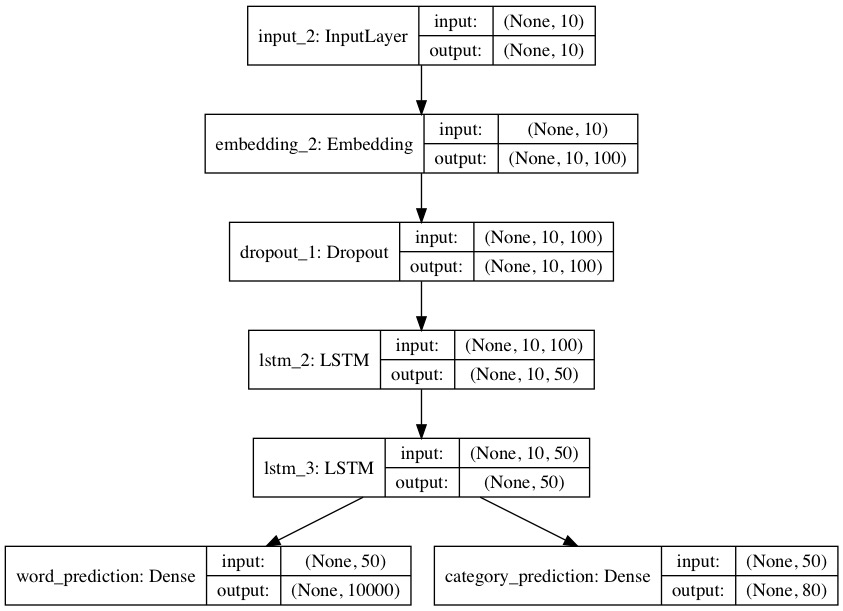
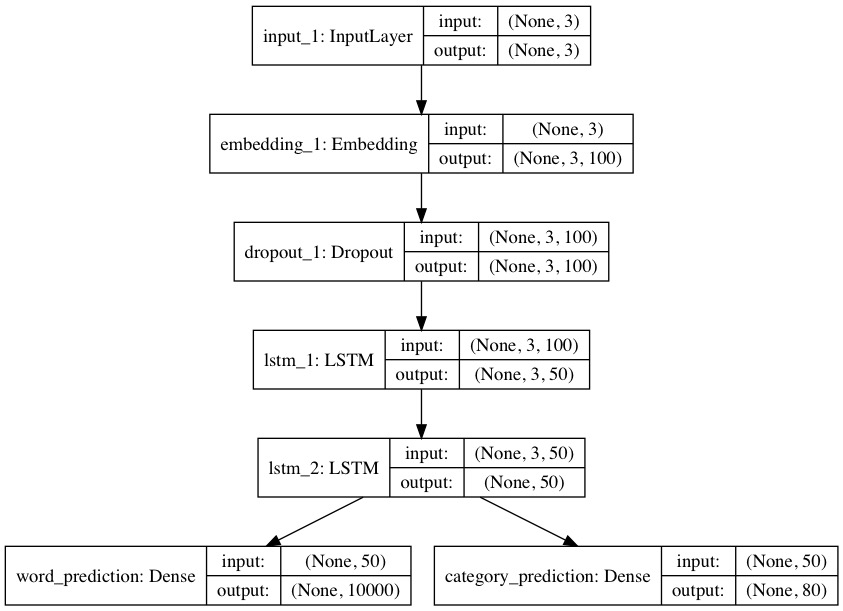
Updated README with report

diff --git a/README.md b/README.md
@@ -2,22 +2,63 @@
 
 ## Usage
 
-### `test.py`
+### Example
+
+#### Train Model
+Train the model on *horse* and *cat* categories.
 ```
-# Example
-python test.py -P B --windowsize=3 --maxinstances=10 ./models/lstm_simple.hdf5 tokenizer10000.pickle
+python train.py -P B --maxinstances=25 ./test/ ./test/test_model.hdf5 'horse' 'cat'
+```
+  - Model will be saved in `./test/test_model.hdf5` and
+  - Tokenizer saved to `./test/tokenizer10000_horse_cat.pickle`
+Both of these need to be provided to `test.py`, but better to use the pretrained models and tokenizers. Just copy the examples below
+
+#### Test Model
+Then to test the model using the best model (not the one we just trained on)
+```
+python test.py -P B --maxinstances=50 ./models/lstm_simple_embed100.hdf5 ./tokenizer10000.pickle
 ```
 
-### `perplexity.py`
+#### Perplexity
+Calculate the perplexity of the model
 ```
-# Example
-python perplexity.py --windowsize=3 --maxinstances=10 ./models/lstm_simple.hdf5 tokenizer10000.pickle
+python perplexity.py --maxinstances=50 ./models/lstm_simple_embed100.hdf5 ./tokenizer10000.pickle
 ```
 
+#### Predict Words
+```
+python predict_word.py "A man is sitting on a" ./models/lstm_simple_embed100.hdf5 ./tokenizer10000.pickle
+```
+
+    Predicting: A man is sitting on a...
+    Word Predictions:
+    picture: 0.11356481909751892
+    holding: 0.11310586333274841
+    window: 0.04701809585094452
+    glass: 0.04402976483106613
+    looking: 0.038740649819374084
+    ---------
+    Category Predictions:
+    person: 0.14352022111415863
+    chair: 0.045445144176483154
+    cat: 0.04415004700422287
+    dining table: 0.04063219204545021
+    bench: 0.03427702933549881
+
+Multi-word prediction
+```
+python predict_word.py -n 3 "A man is sitting on a" ./models/lstm_simple_embed100.hdf5 ./tokenizer10000.pickle
+```
+
+    Predicting 3 words: A man is sitting on a -> picture the man
+    Category Predictions:
+    person: 0.11248820275068283
+    chair: 0.07324380427598953
+    tv: 0.06896624714136124
+    book: 0.04803682491183281
+    couch: 0.04134979099035263
 
 ###  Model Diagram
-
-
 ```python
 from keras.models import load_model
 from keras.utils import plot_model
@@ -30,38 +71,69 @@ plot_model(model, to_file="./imgs/lstm_simple_embed100.jpg", show_shapes=True)
 
 ### Architecture Overview
 
-After experiementing with many different architectures and LSTM layers, what ended up working the best was a single LSTM layer with 50 nodes. Each word is represented as an integer less than 10000. Some of the other approaches I tried were to have the embedding layer input into two different LSTM layers which in turn seperately predicted either word prediction, or category prediction. This performed worse than other options as well. The other architectures I experimented with are described below, where two LSTM layers are used (passing sequences from first to the second). The word predictions have size 10000 with a softmax activation
+After experiementing with many different architectures and LSTM layers, what ended up working the best was a single LSTM layer with 50 nodes. Each word is represented as an integer less than 10000. Some of the other approaches I tried were to have the embedding layer input into two different LSTM layers which in turn seperately predicted either word prediction, or category prediction. This performed worse than other options as well. The other architectures I experimented with are described below, where two LSTM layers are used (passing sequences from first to the second).
 
-  - **Loss function**: Categorical Cross Entropy
+I had originally started with a window size of 5 and then tested a window size of 10. The accuracy was a little better but when using word prediction script the results did not appear as good. The tradeoff of training time was also not worth it as the window size of 10 took almost twice as long to run.
+
+  - **Loss function**: Categorical Cross Entropy for the word prediction since we have one-hot vector encodings and Binary Cross Entropy for the multi-category classification.
   - **Batch Size**: 256
   - **Epochs**: 10 (For final test)
-  - **Window size**: 10 This was probably way overkill for this. I had slightly better results using 10 window size but the different in training time was not worth the results.
+  - **Window size**: 3
   - **Data size**: Using the window size of 10, I created 5572508 training examples from the 591753 captions in the training data. In the test set, 236352 training examples were created from 25014 captions.
-  - **Dropout**: dropout was set to 0.1 for the LSTM layer. This performed better than no dropout and 0.5 dropout.
-
-
-```python
-# Alternative model
-model = load_model('./models/lstm_complex_drop1.hdf5')
-plot_model(model, to_file="./imgs/lstm_complex_drop1.jpg", show_shapes=True)
-```
+  - **Dropout**: dropout was set to 0.1 for the LSTM layer. This performed better than no dropout and 0.5 dropout. It was also not the best test for this as I think with many more epochs it could have performed the same and generalized better.
 
 ### Variant
 ![Two LSTM Layers](./imgs/lstm_complex_drop1.jpg)
 
 This architectural variant did not seem to perform as well at the simple one layer LSTM model. I experimented with setting the dropout rate which increased the loss. This might not have been fair to do, since I did not run it for many epochs. Increasing the dropout rate should make the model converge slower but overfit less often which I didn't give it the chance to do with such a small number of epochs.
 
+Code below
+```python
+from keras.models import load_model
+from keras.utils import plot_model
+
+# Alternative model
+model = load_model('./models/lstm_complex_drop1.hdf5')
+plot_model(model, to_file="./imgs/lstm_complex_drop1.jpg", show_shapes=True)
+```
+
 ### Hyperparameter Selection  
 
   After experiementing with many different architectures and LSTM layers, what ended up working the best was a single LSTM layer with 50 nodes. I first changed the embedding size to 100 and then for the two other variations a more complex model (seen above) with additional dropout at levels 0.1 and 0.5. I thought that adding another LSTM layer would perform better than the single layer. I am not sure if increasing the epochs or modifying the other hyperparameters would have made a difference.
 
 ### Model Loss for Different Hyperparameters
-
 ![Model Loss](./imgs/model_loss.png)
+
+The final model I went with was the *Simple LSTM 100 Embed*. This was an increase from the base model from 50 node embedding layer to 100. The more complex models (with an additional LSTM layer and dropout) did not perform as well overall.
+
+Code to generate the plot is show below
+
+
+```python
+import matplotlib.pyplot as plt
+
+import pandas as pd
+
+model_simple = pd.read_csv('./results/compare_simple.csv')
+model_simple_embed100 = pd.read_csv('./results/compare_embed_100.csv')
+model_complex_drop1 = pd.read_csv('./results/compare_complex_embed_100_do1.csv')
+model_complex_drop5 = pd.read_csv('./results/compare_complex_embed_100_do5.csv')
+
+# Plot overall loss
+plt.plot(model_simple['epoch'], model_simple['loss'], label='Simple LSTM 50 Embed')
+plt.plot(model_simple_embed100['epoch'], model_simple_embed100['loss'], label='Simple LSTM 100 Embed')
+plt.plot(model_complex_drop1['epoch'], model_complex_drop1['loss'], label='Complex LSTM 100 Embed Dropout 0.1')
+plt.plot(model_complex_drop5['epoch'], model_complex_drop5['loss'], label='Complex LSTM 100 Embed Dropout 0.5')
+
+plt.legend(loc='upper right')
+plt.title("Overall Cross Entropy Loss")
+
+plt.savefig('./imgs/model_loss.png', bbox_inches='tight')
+```
 
 ### Lessons Learned
 
-I learned lots about language models from building this word and category prediction. Also this project was a nice introduction to the Keras functional API. It was interesting to experiment with branching into two seperate LSTM models and combining at the end. The functional API is very simple to use and extremely powerful for branching and rejoining different layers. While Keras makes it easy to train complex models, I would like to dig more deep into some of the theory behind the different layers, and the reasoning behind various hyperparameters.
+I learned lots about language models from building this word and category prediction. Also this project was a nice introduction to the Keras functional API. It was interesting to experiment with branching into two seperate LSTM models and combining at the end. The functional API is very simple to use and extremely powerful for branching and rejoining different layers. While Keras makes it easy to train complex models, I would like to dig more deep into some of the theory behind the different layers, and the reasoning behind various hyperparameters. Another thing that I learned was the difference between categorical cross entropy and binary cross entropy. I had originally just used categorical cross entropy for both the word prediction and category prediction.
 
 This project also taught me the importance of starting early on projects. Both the preprocessing of the data and the training time resulted in many hours of debugging and waiting. The process of preparing the text data was challenging but can be easily used for other word based models I use in the future. I would definitely use a smaller window size for prediction and systematically increase it rather than jumping to something high. This would give me the opportunity to experiment more with other hyperparameters because it would reduce the amount of training time. Such as, increasing the dropout rate should make the model converge slower but overfit less often which I didn't give it the chance to do with such a small number of epochs.
 
